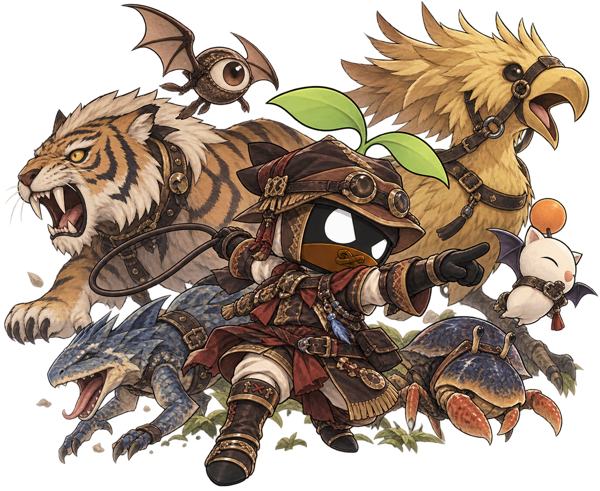
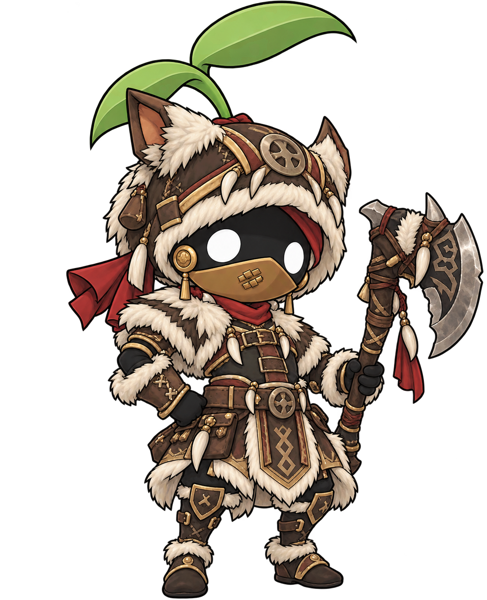
BST art v2

diff --git a/jobs.html b/jobs.html
@@ -1,4 +1,4 @@
 <!DOCTYPE html><html lang="en"><head><meta charset="utf-8"><meta name="viewport" content="width=device-width,initial-scale=1"><title>Jobs — EmberXI Wiki</title><link rel="stylesheet" href="style.css?v=1789575366"></head><body>
 <div id="side"><div id="logo"><a href="index.html"><div class="logo-title">EMBER XI<br>WIKI</div><div class="logo-sub">A Family Resource for Vana'diel</div></a></div><div class="portal"><h3>Main</h3><ul><li><a href="index.html">Main Page</a></li><li><a href="new-players.html">New Players</a></li><li><a href="rules.html">Server Rules</a></li><li><a href="xp-guide.html">EXP Guide</a></li><li><a href="jobs.html">Jobs</a></li><li><a href="trusts.html">Trusts</a></li><li><a href="avatars.html">Avatars</a></li><li><a href="eco-warrior.html">Eco-Warrior</a></li><li><a href="missions.html">Missions</a></li><li><a href="nms.html">NMs</a></li><li><a href="sky.html">Sky</a></li><li><a href="sea.html">Sea</a></li><li><a href="hnm.html">HNM</a></li></ul></div><div class="portal"><h3>EmberXI Content</h3><ul><li><a href="limit-break.html">Limit Break</a></li><li><a href="fountain.html">The Fountain</a></li><li><a href="ember-trials.html">Ember Trials</a></li><li><a href="ambuscade.html">Ambuscade</a></li><li><a href="nine-teeth.html">Nine Teeth</a></li><li><a href="domain-invasion.html">Domain Invasion</a></li><li><a href="forge.html">Brandt & Teodor</a></li><li><a href="alexandrite.html">Alexandrite</a></li><li><a href="shami.html">Shami & Orbs</a></li><li><a href="spark-store.html">Spark Store</a></li></ul></div><div class="portal"><h3>Coming Soon</h3><ul><li><span class="soon">CoP</span></li><li><span class="soon">ToAU</span></li><li><span class="soon">Quests</span></li></ul></div><div class="portal"><h3>Tools</h3><ul><li><a href="https://emberxi.wordpress.com">News Site</a></li></ul></div></div>
 <div id="main"><div id="top"><div class="tabs-l"><a class="on" href="#">Jobs</a><a href="#">Discussion</a></div><div class="tabs-r"><a class="on" href="#">Read</a><a href="#">History</a><form class="search" onsubmit="return false"><input placeholder="Search EmberXI Wiki"></form></div></div>
-<div id="content"><h1 class="firstHeading">Jobs</h1><div class="article"><p>Your <b>Main Job</b> is the job that gains experience. A <b>Support Job</b> (sub) is a second job at half your main level; it gives you its abilities, traits and spells up to that level.</p><p>The "Standard Jobs" below are available to every new character. The "Advanced Jobs" are unlocked by completing a quest after level 30.</p><h2>Standard Jobs</h2><p>There are six standard jobs available to all starting players.</p><div class="jobgrid2"><div class="jobrow"><a href="job-war.html" class="jobpic"><img src="img/job-war.png?v=1789578534" alt="Warrior"></a><div><h3 id="war"><a href="job-war.html">Warrior</a></h3><p>Masters of weapons. Warriors stand in front and protect the party. The easiest first job, and the best support job for melee.</p></div></div><div class="jobrow"><a href="job-mnk.html" class="jobpic"><img src="img/job-mnk.png?v=1789578534" alt="Monk"></a><div><h3 id="mnk"><a href="job-mnk.html">Monk</a></h3><p>Fighters who use their fists. Fast punches, high HP and the best Hand-to-Hand skill. Very good solo from level 1.</p></div></div><div class="jobrow"><a href="job-thf.html" class="jobpic"><img src="img/job-thf.png?v=1789578534" alt="Thief"></a><div><h3 id="thf"><a href="job-thf.html">Thief</a></h3><p>Sneak Attack, Trick Attack and Treasure Hunter for more drops. Works best with a Trust tank in front.</p></div></div><div class="jobrow"><a href="job-whm.html" class="jobpic"><img src="img/job-whm.png?v=1789578534" alt="White Mage"></a><div><h3 id="whm"><a href="job-whm.html">White Mage</a></h3><p>The main healer: Cure, Regen, Erase and Raise. With Trusts on EmberXI a White Mage can play solo too.</p></div></div><div class="jobrow"><a href="job-blm.html" class="jobpic"><img src="img/job-blm.png?v=1789578534" alt="Black Mage"></a><div><h3 id="blm"><a href="job-blm.html">Black Mage</a></h3><p>The highest magic damage in the game: elemental nukes, Sleep, Warp and Escape. Magic Burst is +35 on EmberXI.</p></div></div><div class="jobrow"><a href="job-rdm.html" class="jobpic"><img src="img/job-rdm.png?v=1789578534" alt="Red Mage"></a><div><h3 id="rdm"><a href="job-rdm.html">Red Mage</a></h3><p>A fighter-mage: sword plus white and black magic, Refresh, Haste and Dispel. The best solo job of the era.</p></div></div></div><h2>Advanced Jobs</h2><p>By completing certain quests after reaching level 30, the door to many other jobs opens.</p><div class="jobgrid2"><div class="jobrow"><a href="job-pld.html" class="jobpic"><img src="img/job-pld.png?v=1789578534" alt="Paladin"></a><div><h3 id="pld"><a href="job-pld.html">Paladin</a></h3><p>The knight with white magic: the best tank of the era. Cure, Provoke, Sentinel and Invincible.</p></div></div><div class="jobrow"><a href="job-drk.html" class="jobpic"><img src="img/job-drk.png?v=1789578534" alt="Dark Knight"></a><div><h3 id="drk"><a href="job-drk.html">Dark Knight</a></h3><p>High damage with Scythe and Great Sword, plus black magic, Absorb spells and Stun. Uses its own HP for power.</p></div></div><div class="jobrow"><a href="job-bst.html" class="jobpic"><img src="img/job-bst.png?v=1789580053" alt="Beastmaster"></a><div><h3 id="bst"><a href="job-bst.html">Beastmaster</a></h3><p>Charms monsters and fights beside them, or calls Jug Pets. The best solo job even without Trusts.</p></div></div><div class="jobrow"><a href="job-brd.html" class="jobpic"><img src="img/job-brd.png?v=1789578534" alt="Bard"></a><div><h3 id="brd"><a href="job-brd.html">Bard</a></h3><p>Songs that speed up the party, restore MP and put enemies to sleep. The backbone of every era party.</p></div></div><div class="jobrow"><a href="job-rng.html" class="jobpic"><img src="img/job-rng.png?v=1789578534" alt="Ranger"></a><div><h3 id="rng"><a href="job-rng.html">Ranger</a></h3><p>Ranged damage with Bow and Gun, Barrage and Sharpshot. Needs arrows or bullets from the Auction House.</p></div></div><div class="jobrow"><a href="job-sam.html" class="jobpic"><img src="img/job-sam.png?v=1789578534" alt="Samurai"></a><div><h3 id="sam"><a href="job-sam.html">Samurai</a></h3><p>Master of Weapon Skills: fast TP with Meditate and Hasso, and Third Eye to dodge. The king of skillchains.</p></div></div><div class="jobrow"><a href="job-nin.html" class="jobpic"><img src="img/job-nin.png?v=1789579722" alt="Ninja"></a><div><h3 id="nin"><a href="job-nin.html">Ninja</a></h3><p>Utsusemi shadows absorb hits; Ninjutsu gives elemental damage and debuffs. The best evasion tank of the era.</p></div></div><div class="jobrow"><a href="job-drg.html" class="jobpic"><img src="img/job-drg.png?v=1789578534" alt="Dragoon"></a><div><h3 id="drg"><a href="job-drg.html">Dragoon</a></h3><p>Lance and Wyvern. Jump, High Jump and Super Jump for damage and enmity control. The Wyvern heals and fights with you.</p></div></div><div class="jobrow"><a href="job-smn.html" class="jobpic"><img src="img/job-smn.png?v=1789578996" alt="Summoner"></a><div><h3 id="smn"><a href="job-smn.html">Summoner</a></h3><p>Makes pacts with Avatars: Carbuncle, then the six, then Fenrir. The avatar fights for you with Blood Pacts. Support, damage and healing.</p></div></div><div class="jobrow"><a href="job-blu.html" class="jobpic"><img src="img/job-blu.png?v=1789582174" alt="Blue Mage"></a><div><h3 id="blu"><a href="job-blu.html">Blue Mage</a></h3><p>Learns monster spells (Blue Magic) by killing monsters after they use the move. Sword plus a flexible spell set.</p></div></div><div class="jobrow"><a href="job-cor.html" class="jobpic"><img src="img/job-cor.png?v=1789580553" alt="Corsair"></a><div><h3 id="cor"><a href="job-cor.html">Corsair</a></h3><p>A pirate with a gun and Phantom Rolls: luck-based buffs for the party and Hexagun damage.</p></div></div><div class="jobrow"><a href="job-pup.html" class="jobpic"><img src="img/job-pup.png?v=1789581899" alt="Puppetmaster"></a><div><h3 id="pup"><a href="job-pup.html">Puppetmaster</a></h3><p>Controls an Automaton that can be a tank, healer or mage depending on its Attachments.</p></div></div><div class="jobrow"><a href="job-dnc.html" class="jobpic"><img src="img/job-dnc.png?v=1789586774" alt="Dancer"></a><div><h3 id="dnc"><a href="job-dnc.html">Dancer</a></h3><p>Fights with daggers and turns TP into cures, buffs and debuffs with Waltzes, Sambas and Steps. Heals itself, so it is very good solo.</p></div></div><div class="jobrow"><a href="job-sch.html" class="jobpic"><img src="img/job-sch.png?v=1789578534" alt="Scholar"></a><div><h3 id="sch"><a href="job-sch.html">Scholar</a></h3><p>A flexible mage with two stances: Light Arts (white magic) and Dark Arts (black magic), plus Stratagems for faster or cheaper spells.</p></div></div></div><h2>Jobs of Vana'diel by Era</h2><table class="wikitable" dir="ltr"><tr><th>Expansion</th><th></th><th>Jobs</th></tr><tr><td dir="auto">Final Fantasy XI (2002–2004)</td><td dir="auto">Standard Jobs</td><td dir="auto"><a href="job-war.html">Warrior</a> · <a href="job-mnk.html">Monk</a> · <a href="job-thf.html">Thief</a> · <a href="job-whm.html">White Mage</a> · <a href="job-blm.html">Black Mage</a> · <a href="job-rdm.html">Red Mage</a></td></tr><tr><td dir="auto"></td><td dir="auto">Advanced Jobs</td><td dir="auto"><a href="job-pld.html">Paladin</a> · <a href="job-drk.html">Dark Knight</a> · <a href="job-bst.html">Beastmaster</a> · <a href="job-brd.html">Bard</a> · <a href="job-rng.html">Ranger</a></td></tr><tr><td dir="auto">Rise of the Zilart (2003–2004)</td><td dir="auto"></td><td dir="auto"><a href="job-smn.html">Summoner</a> · <a href="job-sam.html">Samurai</a> · <a href="job-nin.html">Ninja</a> · <a href="job-drg.html">Dragoon</a></td></tr><tr><td dir="auto">Chains of Promathia (2004)</td><td dir="auto"></td><td dir="auto">None</td></tr><tr><td dir="auto">Treasures of Aht Urhgan (2006)</td><td dir="auto"></td><td dir="auto"><a href="job-blu.html">Blue Mage</a> · <a href="job-cor.html">Corsair</a> · <a href="job-pup.html">Puppetmaster</a></td></tr><tr><td dir="auto">Wings of the Goddess (2007)</td><td dir="auto"></td><td dir="auto"><a href="job-dnc.html">Dancer</a> · <a href="job-sch.html">Scholar</a></td></tr></table></div><div id="foot">Last edited: 8 September 2026 · EmberXI Wiki</div></div></div></body></html>
+<div id="content"><h1 class="firstHeading">Jobs</h1><div class="article"><p>Your <b>Main Job</b> is the job that gains experience. A <b>Support Job</b> (sub) is a second job at half your main level; it gives you its abilities, traits and spells up to that level.</p><p>The "Standard Jobs" below are available to every new character. The "Advanced Jobs" are unlocked by completing a quest after level 30.</p><h2>Standard Jobs</h2><p>There are six standard jobs available to all starting players.</p><div class="jobgrid2"><div class="jobrow"><a href="job-war.html" class="jobpic"><img src="img/job-war.png?v=1789578534" alt="Warrior"></a><div><h3 id="war"><a href="job-war.html">Warrior</a></h3><p>Masters of weapons. Warriors stand in front and protect the party. The easiest first job, and the best support job for melee.</p></div></div><div class="jobrow"><a href="job-mnk.html" class="jobpic"><img src="img/job-mnk.png?v=1789578534" alt="Monk"></a><div><h3 id="mnk"><a href="job-mnk.html">Monk</a></h3><p>Fighters who use their fists. Fast punches, high HP and the best Hand-to-Hand skill. Very good solo from level 1.</p></div></div><div class="jobrow"><a href="job-thf.html" class="jobpic"><img src="img/job-thf.png?v=1789578534" alt="Thief"></a><div><h3 id="thf"><a href="job-thf.html">Thief</a></h3><p>Sneak Attack, Trick Attack and Treasure Hunter for more drops. Works best with a Trust tank in front.</p></div></div><div class="jobrow"><a href="job-whm.html" class="jobpic"><img src="img/job-whm.png?v=1789578534" alt="White Mage"></a><div><h3 id="whm"><a href="job-whm.html">White Mage</a></h3><p>The main healer: Cure, Regen, Erase and Raise. With Trusts on EmberXI a White Mage can play solo too.</p></div></div><div class="jobrow"><a href="job-blm.html" class="jobpic"><img src="img/job-blm.png?v=1789578534" alt="Black Mage"></a><div><h3 id="blm"><a href="job-blm.html">Black Mage</a></h3><p>The highest magic damage in the game: elemental nukes, Sleep, Warp and Escape. Magic Burst is +35 on EmberXI.</p></div></div><div class="jobrow"><a href="job-rdm.html" class="jobpic"><img src="img/job-rdm.png?v=1789578534" alt="Red Mage"></a><div><h3 id="rdm"><a href="job-rdm.html">Red Mage</a></h3><p>A fighter-mage: sword plus white and black magic, Refresh, Haste and Dispel. The best solo job of the era.</p></div></div></div><h2>Advanced Jobs</h2><p>By completing certain quests after reaching level 30, the door to many other jobs opens.</p><div class="jobgrid2"><div class="jobrow"><a href="job-pld.html" class="jobpic"><img src="img/job-pld.png?v=1789578534" alt="Paladin"></a><div><h3 id="pld"><a href="job-pld.html">Paladin</a></h3><p>The knight with white magic: the best tank of the era. Cure, Provoke, Sentinel and Invincible.</p></div></div><div class="jobrow"><a href="job-drk.html" class="jobpic"><img src="img/job-drk.png?v=1789578534" alt="Dark Knight"></a><div><h3 id="drk"><a href="job-drk.html">Dark Knight</a></h3><p>High damage with Scythe and Great Sword, plus black magic, Absorb spells and Stun. Uses its own HP for power.</p></div></div><div class="jobrow"><a href="job-bst.html" class="jobpic"><img src="img/job-bst.png?v=1789587196" alt="Beastmaster"></a><div><h3 id="bst"><a href="job-bst.html">Beastmaster</a></h3><p>Charms monsters and fights beside them, or calls Jug Pets. The best solo job even without Trusts.</p></div></div><div class="jobrow"><a href="job-brd.html" class="jobpic"><img src="img/job-brd.png?v=1789578534" alt="Bard"></a><div><h3 id="brd"><a href="job-brd.html">Bard</a></h3><p>Songs that speed up the party, restore MP and put enemies to sleep. The backbone of every era party.</p></div></div><div class="jobrow"><a href="job-rng.html" class="jobpic"><img src="img/job-rng.png?v=1789578534" alt="Ranger"></a><div><h3 id="rng"><a href="job-rng.html">Ranger</a></h3><p>Ranged damage with Bow and Gun, Barrage and Sharpshot. Needs arrows or bullets from the Auction House.</p></div></div><div class="jobrow"><a href="job-sam.html" class="jobpic"><img src="img/job-sam.png?v=1789578534" alt="Samurai"></a><div><h3 id="sam"><a href="job-sam.html">Samurai</a></h3><p>Master of Weapon Skills: fast TP with Meditate and Hasso, and Third Eye to dodge. The king of skillchains.</p></div></div><div class="jobrow"><a href="job-nin.html" class="jobpic"><img src="img/job-nin.png?v=1789579722" alt="Ninja"></a><div><h3 id="nin"><a href="job-nin.html">Ninja</a></h3><p>Utsusemi shadows absorb hits; Ninjutsu gives elemental damage and debuffs. The best evasion tank of the era.</p></div></div><div class="jobrow"><a href="job-drg.html" class="jobpic"><img src="img/job-drg.png?v=1789578534" alt="Dragoon"></a><div><h3 id="drg"><a href="job-drg.html">Dragoon</a></h3><p>Lance and Wyvern. Jump, High Jump and Super Jump for damage and enmity control. The Wyvern heals and fights with you.</p></div></div><div class="jobrow"><a href="job-smn.html" class="jobpic"><img src="img/job-smn.png?v=1789578996" alt="Summoner"></a><div><h3 id="smn"><a href="job-smn.html">Summoner</a></h3><p>Makes pacts with Avatars: Carbuncle, then the six, then Fenrir. The avatar fights for you with Blood Pacts. Support, damage and healing.</p></div></div><div class="jobrow"><a href="job-blu.html" class="jobpic"><img src="img/job-blu.png?v=1789582174" alt="Blue Mage"></a><div><h3 id="blu"><a href="job-blu.html">Blue Mage</a></h3><p>Learns monster spells (Blue Magic) by killing monsters after they use the move. Sword plus a flexible spell set.</p></div></div><div class="jobrow"><a href="job-cor.html" class="jobpic"><img src="img/job-cor.png?v=1789580553" alt="Corsair"></a><div><h3 id="cor"><a href="job-cor.html">Corsair</a></h3><p>A pirate with a gun and Phantom Rolls: luck-based buffs for the party and Hexagun damage.</p></div></div><div class="jobrow"><a href="job-pup.html" class="jobpic"><img src="img/job-pup.png?v=1789581899" alt="Puppetmaster"></a><div><h3 id="pup"><a href="job-pup.html">Puppetmaster</a></h3><p>Controls an Automaton that can be a tank, healer or mage depending on its Attachments.</p></div></div><div class="jobrow"><a href="job-dnc.html" class="jobpic"><img src="img/job-dnc.png?v=1789586774" alt="Dancer"></a><div><h3 id="dnc"><a href="job-dnc.html">Dancer</a></h3><p>Fights with daggers and turns TP into cures, buffs and debuffs with Waltzes, Sambas and Steps. Heals itself, so it is very good solo.</p></div></div><div class="jobrow"><a href="job-sch.html" class="jobpic"><img src="img/job-sch.png?v=1789578534" alt="Scholar"></a><div><h3 id="sch"><a href="job-sch.html">Scholar</a></h3><p>A flexible mage with two stances: Light Arts (white magic) and Dark Arts (black magic), plus Stratagems for faster or cheaper spells.</p></div></div></div><h2>Jobs of Vana'diel by Era</h2><table class="wikitable" dir="ltr"><tr><th>Expansion</th><th></th><th>Jobs</th></tr><tr><td dir="auto">Final Fantasy XI (2002–2004)</td><td dir="auto">Standard Jobs</td><td dir="auto"><a href="job-war.html">Warrior</a> · <a href="job-mnk.html">Monk</a> · <a href="job-thf.html">Thief</a> · <a href="job-whm.html">White Mage</a> · <a href="job-blm.html">Black Mage</a> · <a href="job-rdm.html">Red Mage</a></td></tr><tr><td dir="auto"></td><td dir="auto">Advanced Jobs</td><td dir="auto"><a href="job-pld.html">Paladin</a> · <a href="job-drk.html">Dark Knight</a> · <a href="job-bst.html">Beastmaster</a> · <a href="job-brd.html">Bard</a> · <a href="job-rng.html">Ranger</a></td></tr><tr><td dir="auto">Rise of the Zilart (2003–2004)</td><td dir="auto"></td><td dir="auto"><a href="job-smn.html">Summoner</a> · <a href="job-sam.html">Samurai</a> · <a href="job-nin.html">Ninja</a> · <a href="job-drg.html">Dragoon</a></td></tr><tr><td dir="auto">Chains of Promathia (2004)</td><td dir="auto"></td><td dir="auto">None</td></tr><tr><td dir="auto">Treasures of Aht Urhgan (2006)</td><td dir="auto"></td><td dir="auto"><a href="job-blu.html">Blue Mage</a> · <a href="job-cor.html">Corsair</a> · <a href="job-pup.html">Puppetmaster</a></td></tr><tr><td dir="auto">Wings of the Goddess (2007)</td><td dir="auto"></td><td dir="auto"><a href="job-dnc.html">Dancer</a> · <a href="job-sch.html">Scholar</a></td></tr></table></div><div id="foot">Last edited: 8 September 2026 · EmberXI Wiki</div></div></div></body></html>

diff --git a/job-bst.html b/job-bst.html
@@ -1,4 +1,4 @@
 <!DOCTYPE html><html lang="en"><head><meta charset="utf-8"><meta name="viewport" content="width=device-width,initial-scale=1"><title>Beastmaster — EmberXI Wiki</title><link rel="stylesheet" href="style.css?v=1789575366"></head><body>
 <div id="side"><div id="logo"><a href="index.html"><div class="logo-title">EMBER XI<br>WIKI</div><div class="logo-sub">A Family Resource for Vana'diel</div></a></div><div class="portal"><h3>Main</h3><ul><li><a href="index.html">Main Page</a></li><li><a href="new-players.html">New Players</a></li><li><a href="rules.html">Server Rules</a></li><li><a href="xp-guide.html">EXP Guide</a></li><li><a href="jobs.html">Jobs</a></li><li><a href="trusts.html">Trusts</a></li><li><a href="avatars.html">Avatars</a></li><li><a href="eco-warrior.html">Eco-Warrior</a></li><li><a href="missions.html">Missions</a></li><li><a href="nms.html">NMs</a></li><li><a href="sky.html">Sky</a></li><li><a href="sea.html">Sea</a></li><li><a href="hnm.html">HNM</a></li></ul></div><div class="portal"><h3>EmberXI Content</h3><ul><li><a href="limit-break.html">Limit Break</a></li><li><a href="fountain.html">The Fountain</a></li><li><a href="ember-trials.html">Ember Trials</a></li><li><a href="ambuscade.html">Ambuscade</a></li><li><a href="nine-teeth.html">Nine Teeth</a></li><li><a href="domain-invasion.html">Domain Invasion</a></li><li><a href="forge.html">Brandt & Teodor</a></li><li><a href="alexandrite.html">Alexandrite</a></li><li><a href="shami.html">Shami & Orbs</a></li><li><a href="spark-store.html">Spark Store</a></li></ul></div><div class="portal"><h3>Coming Soon</h3><ul><li><span class="soon">CoP</span></li><li><span class="soon">ToAU</span></li><li><span class="soon">Quests</span></li></ul></div><div class="portal"><h3>Tools</h3><ul><li><a href="https://emberxi.wordpress.com">News Site</a></li></ul></div></div>
 <div id="main"><div id="top"><div class="tabs-l"><a class="on" href="#">Beastmaster</a><a href="#">Discussion</a></div><div class="tabs-r"><a class="on" href="#">Read</a><a href="#">History</a><form class="search" onsubmit="return false"><input placeholder="Search EmberXI Wiki"></form></div></div>
-<div id="content"><h1 class="firstHeading">Beastmaster</h1><div class="article"><div class="lead"><table class="infobox"><tr><th colspan="2" class="ib-title">Beastmaster</th></tr><tr><td class="ib-label">Abbreviation</td><td>BST</td></tr><tr><td class="ib-label">Expansion</td><td>Final Fantasy XI</td></tr><tr><td class="ib-label">How to Unlock</td><td><a href="save-my-son.html">Save My Son</a> → <a href="path-of-the-beastmaster.html">Path of the Beastmaster</a> (Jeuno, level 30)</td></tr><tr><td class="ib-label">Page Contents</td><td><a href="#ab">Abilities</a> · <a href="#tr">Traits</a> · <a href="#sk">Skills</a></td></tr></table><div><img class="jobart" src="img/job-bst.png?v=1789580053" alt="Beastmaster"><p>Charms monsters and fights beside them, or calls Jug Pets. The best solo job even without Trusts.</p></div></div><h2 id="ab">Job Abilities</h2><table class="wikitable" dir="ltr"><tr><th>Level</th><th>Name</th></tr><tr><td dir="auto">1</td><td dir="auto">Charm</td></tr><tr><td dir="auto">1</td><td dir="auto">Familiar</td></tr><tr><td dir="auto">1</td><td dir="auto">Fight</td></tr><tr><td dir="auto">1</td><td dir="auto">Pet Commands</td></tr><tr><td dir="auto">10</td><td dir="auto">Gauge</td></tr><tr><td dir="auto">10</td><td dir="auto">Heel</td></tr><tr><td dir="auto">12</td><td dir="auto">Reward</td></tr><tr><td dir="auto">15</td><td dir="auto">Stay</td></tr><tr><td dir="auto">23</td><td dir="auto">Bestial Loyalty</td></tr><tr><td dir="auto">23</td><td dir="auto">Call Beast</td></tr><tr><td dir="auto">25</td><td dir="auto">Ready</td></tr><tr><td dir="auto">25</td><td dir="auto">Sic</td></tr><tr><td dir="auto">30</td><td dir="auto">Tame</td></tr><tr><td dir="auto">35</td><td dir="auto">Leave</td></tr><tr><td dir="auto">45</td><td dir="auto">Snarl</td></tr><tr><td dir="auto">75</td><td dir="auto">Feral Howl</td></tr><tr><td dir="auto">75</td><td dir="auto">Killer Instinct</td></tr></table><h2 id="tr">Job Traits</h2><table class="wikitable" dir="ltr"><tr><th>Level</th><th>Trait</th></tr><tr><td dir="auto">10</td><td dir="auto">Vermin Killer</td></tr><tr><td dir="auto">15</td><td dir="auto">Resist Amnesia</td></tr><tr><td dir="auto">15</td><td dir="auto">Resist Slow</td></tr><tr><td dir="auto">20</td><td dir="auto">Bird Killer</td></tr><tr><td dir="auto">30</td><td dir="auto">Amorph Killer</td></tr><tr><td dir="auto">30</td><td dir="auto">Tandem Strike</td></tr><tr><td dir="auto">35</td><td dir="auto">Resist Amnesia II</td></tr><tr><td dir="auto">35</td><td dir="auto">Resist Slow II</td></tr><tr><td dir="auto">40</td><td dir="auto">Lizard Killer</td></tr><tr><td dir="auto">40</td><td dir="auto">Tandem Blow</td></tr><tr><td dir="auto">45</td><td dir="auto">Damage Limit+</td></tr><tr><td dir="auto">45</td><td dir="auto">Tandem Strike II</td></tr><tr><td dir="auto">50</td><td dir="auto">Aquan Killer</td></tr><tr><td dir="auto">55</td><td dir="auto">Resist Amnesia III</td></tr><tr><td dir="auto">55</td><td dir="auto">Resist Slow III</td></tr><tr><td dir="auto">60</td><td dir="auto">Plantoid Killer</td></tr><tr><td dir="auto">60</td><td dir="auto">Tandem Blow II</td></tr><tr><td dir="auto">60</td><td dir="auto">Tandem Strike III</td></tr><tr><td dir="auto">70</td><td dir="auto">Beast Killer</td></tr><tr><td dir="auto">75</td><td dir="auto">Beast Affinity </td></tr><tr><td dir="auto">75</td><td dir="auto">Beast Healer</td></tr><tr><td dir="auto">75</td><td dir="auto">Resist Amnesia IV</td></tr><tr><td dir="auto">75</td><td dir="auto">Resist Slow IV</td></tr><tr><td dir="auto">75</td><td dir="auto">Tandem Strike IV</td></tr></table><h2 id="sk">Skills</h2><table class="wikitable" dir="ltr"><tr><th>Skill</th><th>Rank</th><th>Lv 37</th><th>Lv 75</th></tr><tr><td dir="auto">Dagger</td><td dir="auto">C+</td><td dir="auto">105</td><td dir="auto">230</td></tr><tr><td dir="auto">Sword</td><td dir="auto">E</td><td dir="auto">94</td><td dir="auto">200</td></tr><tr><td dir="auto">Axe</td><td dir="auto">A+</td><td dir="auto">114</td><td dir="auto">276</td></tr><tr><td dir="auto">Scythe</td><td dir="auto">B-</td><td dir="auto">109</td><td dir="auto">240</td></tr><tr><td dir="auto">Club</td><td dir="auto">D</td><td dir="auto">101</td><td dir="auto">210</td></tr><tr><td dir="auto">Evasion</td><td dir="auto">C</td><td dir="auto">105</td><td dir="auto">225</td></tr><tr><td dir="auto">Shield</td><td dir="auto">E</td><td dir="auto">94</td><td dir="auto">200</td></tr><tr><td dir="auto">parrying</td><td dir="auto">C</td><td dir="auto">105</td><td dir="auto">225</td></tr></table><h2>Artifact Armor</h2><p class="soon">Coming soon.</p></div><div id="foot">Last edited: 8 September 2026 · EmberXI Wiki</div></div></div></body></html>
+<div id="content"><h1 class="firstHeading">Beastmaster</h1><div class="article"><div class="lead"><table class="infobox"><tr><th colspan="2" class="ib-title">Beastmaster</th></tr><tr><td class="ib-label">Abbreviation</td><td>BST</td></tr><tr><td class="ib-label">Expansion</td><td>Final Fantasy XI</td></tr><tr><td class="ib-label">How to Unlock</td><td><a href="save-my-son.html">Save My Son</a> → <a href="path-of-the-beastmaster.html">Path of the Beastmaster</a> (Jeuno, level 30)</td></tr><tr><td class="ib-label">Page Contents</td><td><a href="#ab">Abilities</a> · <a href="#tr">Traits</a> · <a href="#sk">Skills</a></td></tr></table><div><img class="jobart" src="img/job-bst.png?v=1789587196" alt="Beastmaster"><p>Charms monsters and fights beside them, or calls Jug Pets. The best solo job even without Trusts.</p></div></div><h2 id="ab">Job Abilities</h2><table class="wikitable" dir="ltr"><tr><th>Level</th><th>Name</th></tr><tr><td dir="auto">1</td><td dir="auto">Charm</td></tr><tr><td dir="auto">1</td><td dir="auto">Familiar</td></tr><tr><td dir="auto">1</td><td dir="auto">Fight</td></tr><tr><td dir="auto">1</td><td dir="auto">Pet Commands</td></tr><tr><td dir="auto">10</td><td dir="auto">Gauge</td></tr><tr><td dir="auto">10</td><td dir="auto">Heel</td></tr><tr><td dir="auto">12</td><td dir="auto">Reward</td></tr><tr><td dir="auto">15</td><td dir="auto">Stay</td></tr><tr><td dir="auto">23</td><td dir="auto">Bestial Loyalty</td></tr><tr><td dir="auto">23</td><td dir="auto">Call Beast</td></tr><tr><td dir="auto">25</td><td dir="auto">Ready</td></tr><tr><td dir="auto">25</td><td dir="auto">Sic</td></tr><tr><td dir="auto">30</td><td dir="auto">Tame</td></tr><tr><td dir="auto">35</td><td dir="auto">Leave</td></tr><tr><td dir="auto">45</td><td dir="auto">Snarl</td></tr><tr><td dir="auto">75</td><td dir="auto">Feral Howl</td></tr><tr><td dir="auto">75</td><td dir="auto">Killer Instinct</td></tr></table><h2 id="tr">Job Traits</h2><table class="wikitable" dir="ltr"><tr><th>Level</th><th>Trait</th></tr><tr><td dir="auto">10</td><td dir="auto">Vermin Killer</td></tr><tr><td dir="auto">15</td><td dir="auto">Resist Amnesia</td></tr><tr><td dir="auto">15</td><td dir="auto">Resist Slow</td></tr><tr><td dir="auto">20</td><td dir="auto">Bird Killer</td></tr><tr><td dir="auto">30</td><td dir="auto">Amorph Killer</td></tr><tr><td dir="auto">30</td><td dir="auto">Tandem Strike</td></tr><tr><td dir="auto">35</td><td dir="auto">Resist Amnesia II</td></tr><tr><td dir="auto">35</td><td dir="auto">Resist Slow II</td></tr><tr><td dir="auto">40</td><td dir="auto">Lizard Killer</td></tr><tr><td dir="auto">40</td><td dir="auto">Tandem Blow</td></tr><tr><td dir="auto">45</td><td dir="auto">Damage Limit+</td></tr><tr><td dir="auto">45</td><td dir="auto">Tandem Strike II</td></tr><tr><td dir="auto">50</td><td dir="auto">Aquan Killer</td></tr><tr><td dir="auto">55</td><td dir="auto">Resist Amnesia III</td></tr><tr><td dir="auto">55</td><td dir="auto">Resist Slow III</td></tr><tr><td dir="auto">60</td><td dir="auto">Plantoid Killer</td></tr><tr><td dir="auto">60</td><td dir="auto">Tandem Blow II</td></tr><tr><td dir="auto">60</td><td dir="auto">Tandem Strike III</td></tr><tr><td dir="auto">70</td><td dir="auto">Beast Killer</td></tr><tr><td dir="auto">75</td><td dir="auto">Beast Affinity </td></tr><tr><td dir="auto">75</td><td dir="auto">Beast Healer</td></tr><tr><td dir="auto">75</td><td dir="auto">Resist Amnesia IV</td></tr><tr><td dir="auto">75</td><td dir="auto">Resist Slow IV</td></tr><tr><td dir="auto">75</td><td dir="auto">Tandem Strike IV</td></tr></table><h2 id="sk">Skills</h2><table class="wikitable" dir="ltr"><tr><th>Skill</th><th>Rank</th><th>Lv 37</th><th>Lv 75</th></tr><tr><td dir="auto">Dagger</td><td dir="auto">C+</td><td dir="auto">105</td><td dir="auto">230</td></tr><tr><td dir="auto">Sword</td><td dir="auto">E</td><td dir="auto">94</td><td dir="auto">200</td></tr><tr><td dir="auto">Axe</td><td dir="auto">A+</td><td dir="auto">114</td><td dir="auto">276</td></tr><tr><td dir="auto">Scythe</td><td dir="auto">B-</td><td dir="auto">109</td><td dir="auto">240</td></tr><tr><td dir="auto">Club</td><td dir="auto">D</td><td dir="auto">101</td><td dir="auto">210</td></tr><tr><td dir="auto">Evasion</td><td dir="auto">C</td><td dir="auto">105</td><td dir="auto">225</td></tr><tr><td dir="auto">Shield</td><td dir="auto">E</td><td dir="auto">94</td><td dir="auto">200</td></tr><tr><td dir="auto">parrying</td><td dir="auto">C</td><td dir="auto">105</td><td dir="auto">225</td></tr></table><h2>Artifact Armor</h2><p class="soon">Coming soon.</p></div><div id="foot">Last edited: 8 September 2026 · EmberXI Wiki</div></div></div></body></html>
